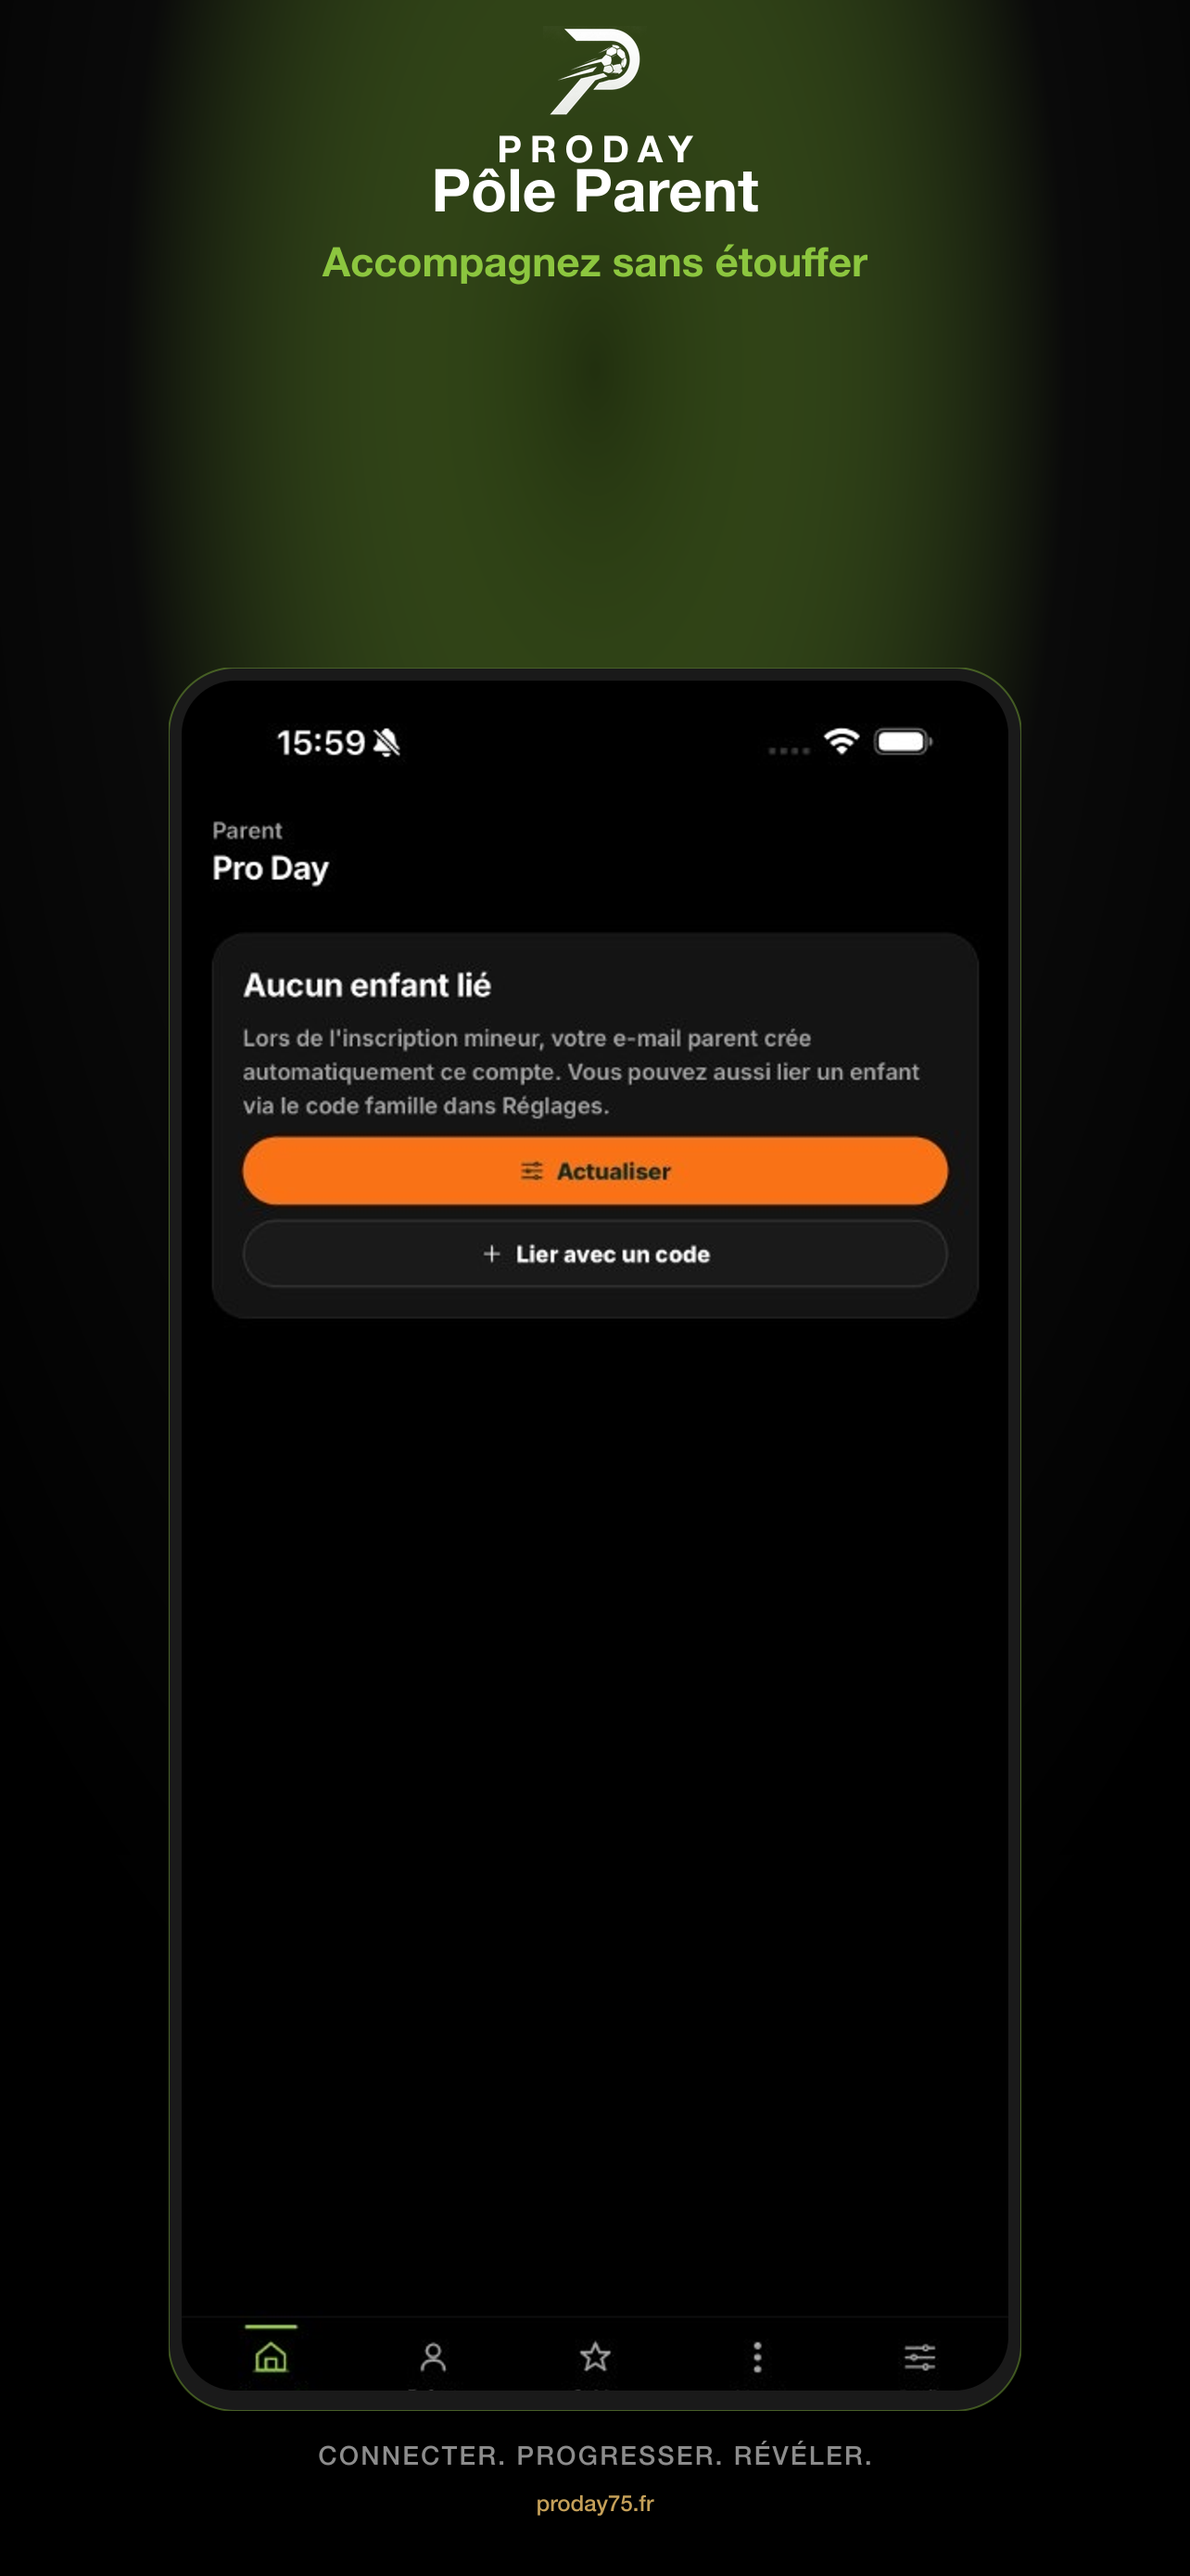
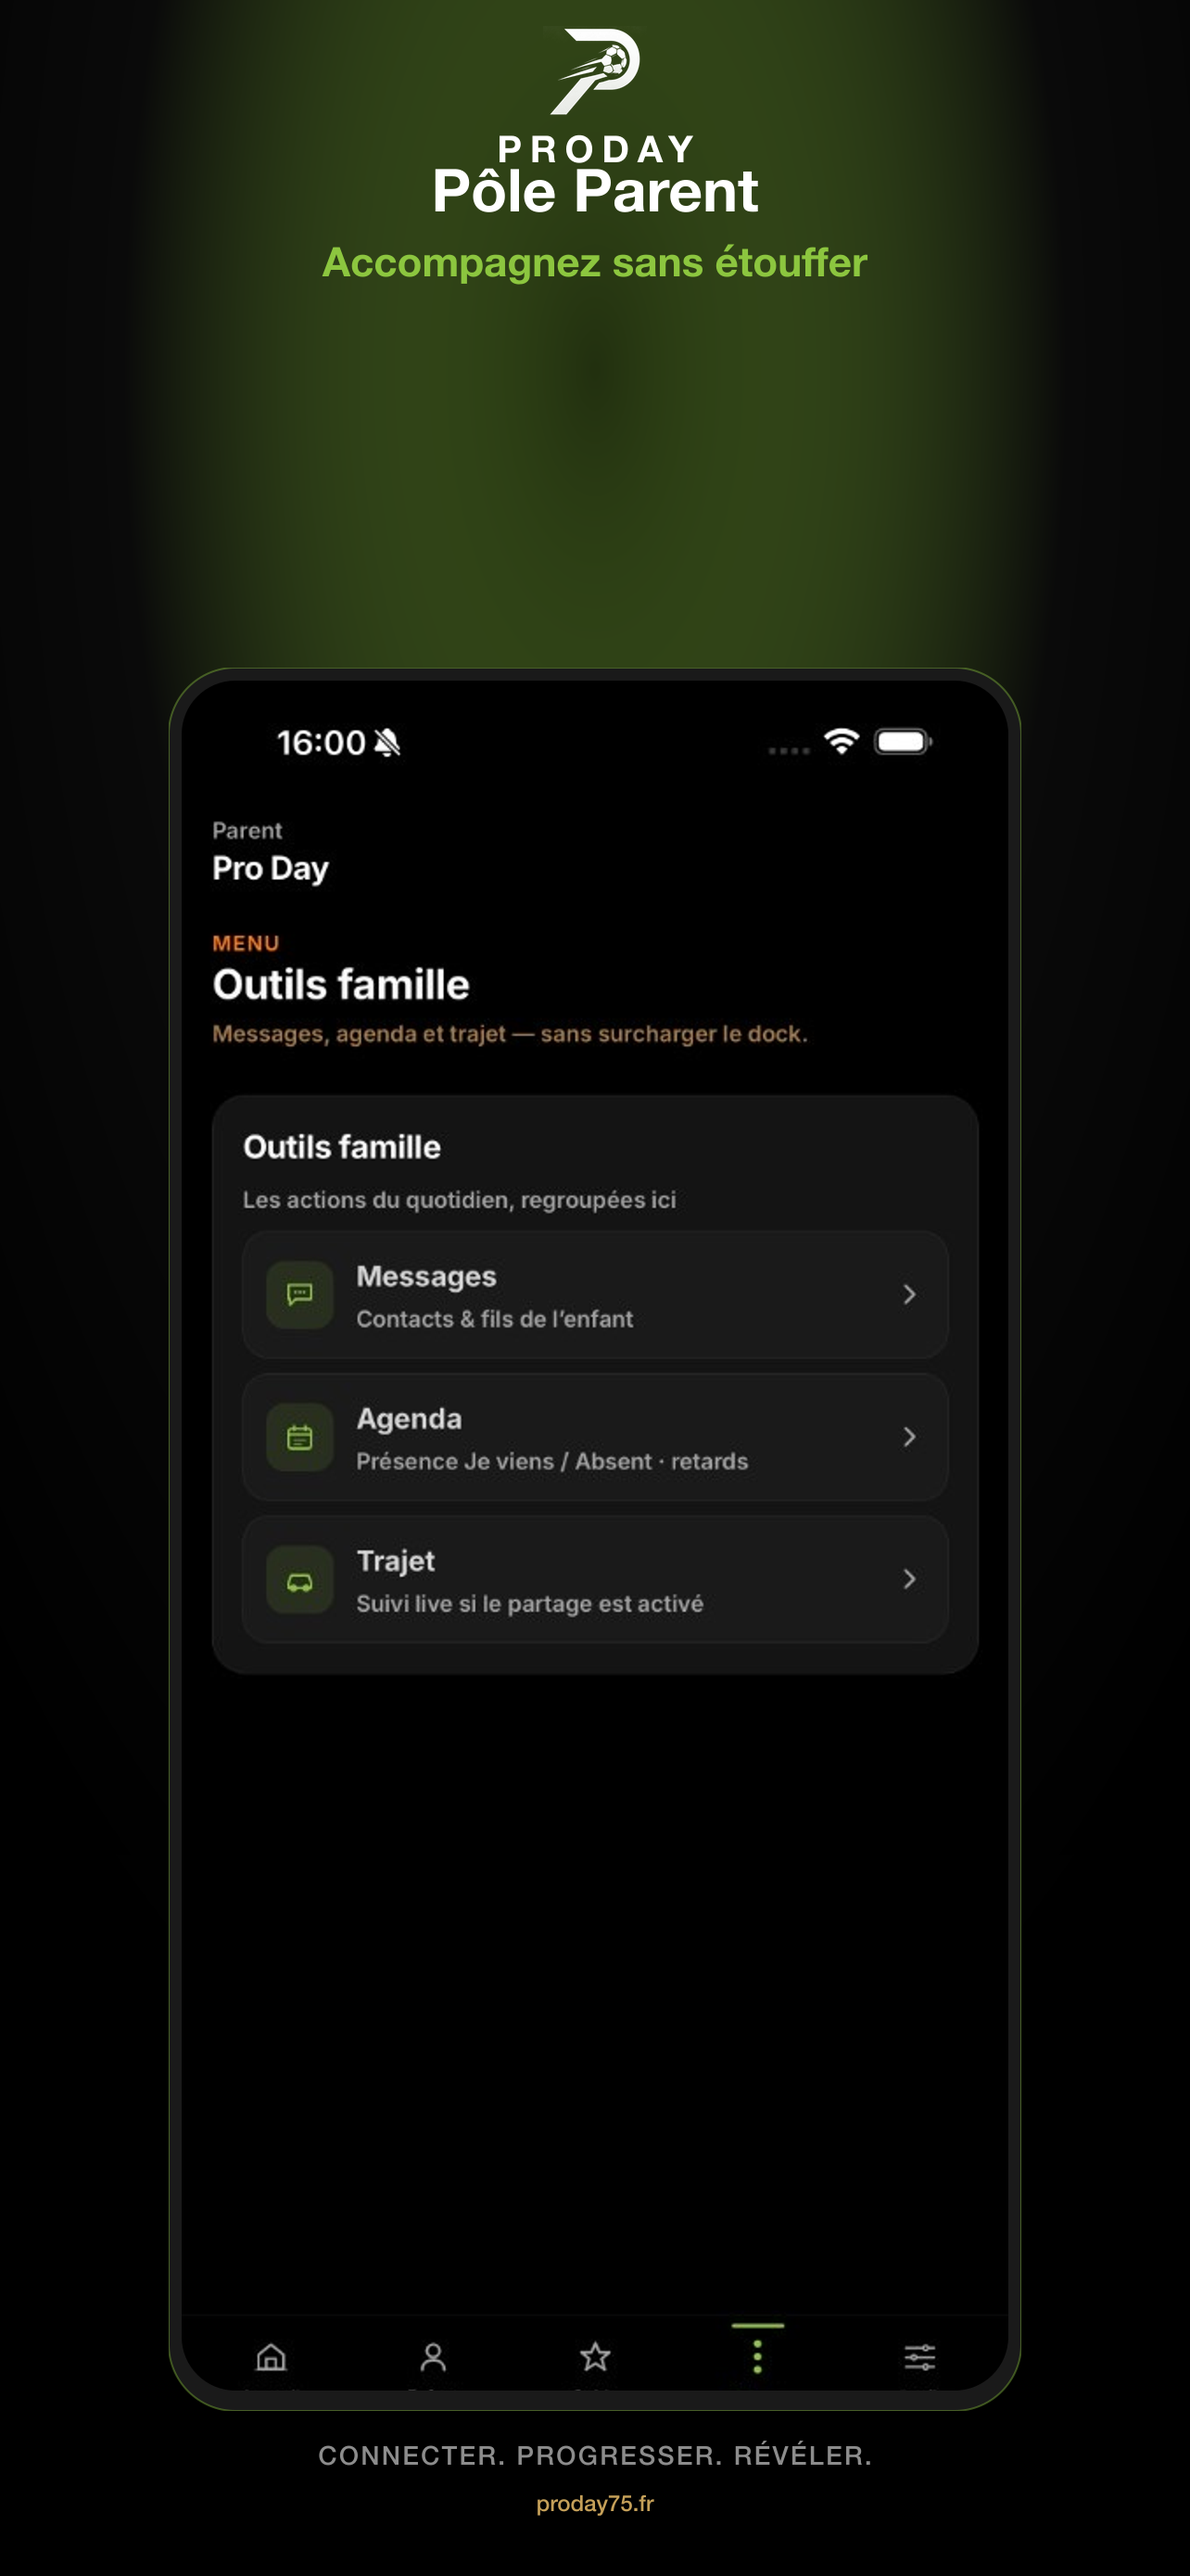
Corriger 3 captures App Store avec écrans UI réels.
Parent (menu famille), Sponsor (prospects) et Supporter (shell simulateur avec dock cyan) remplacent les empty states et le mauvais pôle Joueur.

diff --git a/assets/marketing/app-store/ios-6.5/README.md b/assets/marketing/app-store/ios-6.5/README.md
@@ -21,11 +21,11 @@ App Store Connect → **Médias de l’app** → **Captures d’écran** → **i
 | 2 | `02-pole-coach.png` | Coach | Pilotez votre staff et vos séances | `coach/coach-profil.jpg` |
 | 3 | `03-pole-club.png` | Club | Équipes, licenciés et recrutement | `club/club-equipes.jpg` |
 | 4 | `04-pole-president.png` | Président | Le club en un coup d’œil | `executive/executive-cockpit.jpg` |
-| 5 | `05-pole-parent.png` | Parent | Accompagnez sans étouffer | `parent/parent-accueil.jpg` |
-| 6 | `06-pole-supporter.png` | Supporter | Suivez matchs, scores et favoris | `player/player-matchs.jpg` * |
-| 7 | `07-pole-sponsor.png` | Sponsor | Visibilité clubs et marques | `sponsor/sponsor-accueil.jpg` |
+| 5 | `05-pole-parent.png` | Parent | Accompagnez sans étouffer | `parent/parent-menu.jpg` |
+| 6 | `06-pole-supporter.png` | Supporter | Suivez matchs, scores et favoris | `supporter/supporter-accueil.jpg` |
+| 7 | `07-pole-sponsor.png` | Sponsor | Visibilité clubs et marques | `sponsor/sponsor-prospects.jpg` |
 
-\* **Supporter** : UI Centre Match en attendant une capture simulateur dédiée au pôle Supporter (scaffold en cours).
+\* **Supporter** : capture simulateur du shell réel (dock cyan · Accueil · Matchs · Compét. · Clubs · Vidéos · Profil). Regénérer la source : `npm run marketing:capture-supporter`.
 
 **Hors scope App Store public** : Admin (cockpit interne).
 
